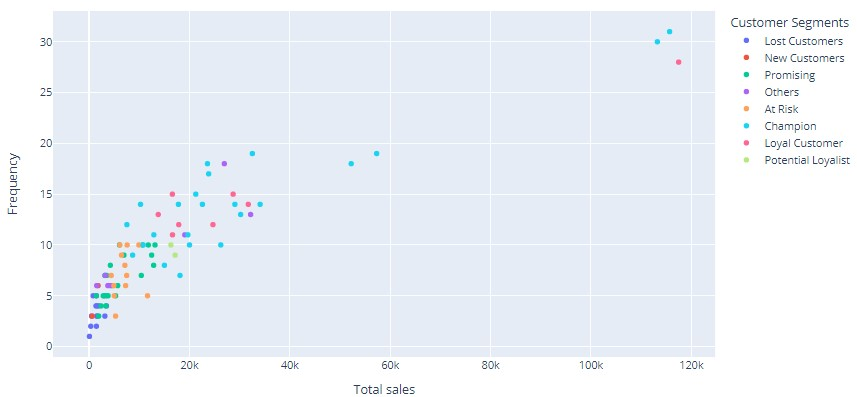
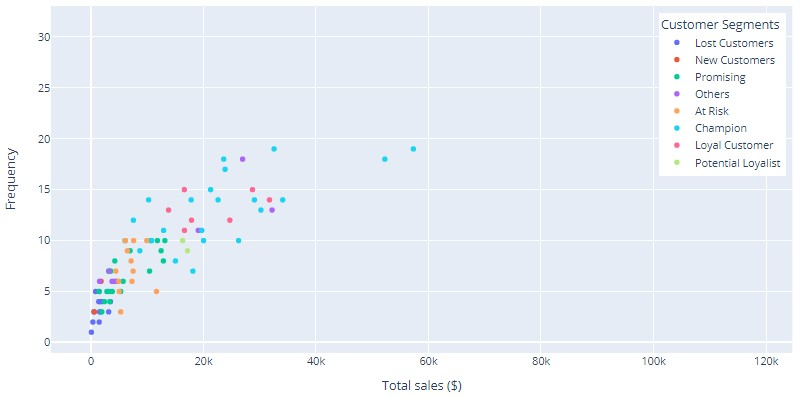
update

diff --git a/projects/rfm_customer_segmentation.html b/projects/rfm_customer_segmentation.html
@@ -177,10 +177,12 @@
                                  "At Risk" customers still generated high sales while the "Potential loyalist" and "New Customers" did not contribute as expected. 
 
 								</p>
-								<a href="../assets/images/projects/project7/sales_by_segment.jpg" class="image11 main"><img src="../assets/images/projects/project7/sales_by_segment.jpg" alt="" /></a><p>
-								Other visualizations such as treemap and geographic map of customer segments can also give some useful insights. These charts can be found in the github Python code below.
+								<a href="../assets/images/projects/project7/sales_by_segment.jpg" class="image11 main"><img src="../assets/images/projects/project7/sales_by_segment.jpg" alt="" /></a>
+								<h4>Geographic location of the customer segments scaled by total sales</h4><p></p>
+								<a href="../assets/images/projects/project7/customer_location.jpg" class="image11 main"><img src="../assets/images/projects/project7/customer_location.jpg" alt="" /></a><p></p>
+								<p>
+									Other visualizations such as treemap of customer segments can also give some useful insights. These charts can be found in the github Python code below.
 								</p>
-
 								
 								<h3>6. Conclusion</h4>
 								<p>
